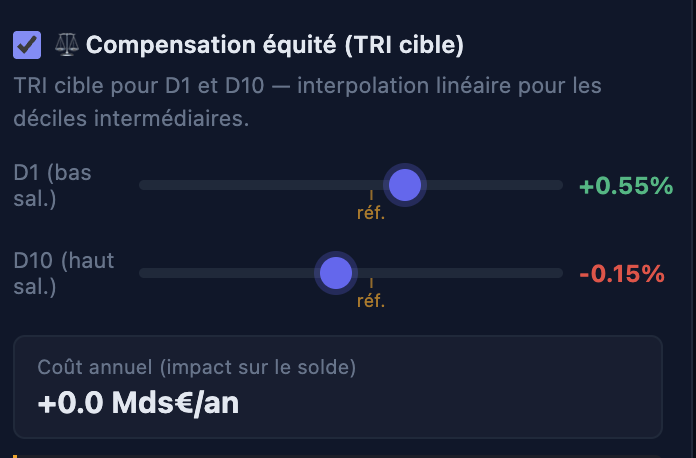
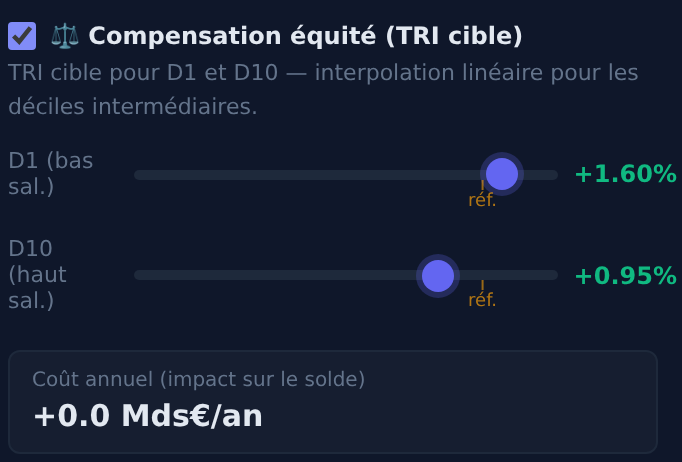
Add files via upload
Notice + TRI

diff --git a/notice.html b/notice.html
@@ -411,7 +411,7 @@
 
       <div class="example">
         <strong>Pourquoi le TRI varie selon les déciles ?</strong><br>
-        D1 commence à travailler jeune (vers 19 ans), a une carrière longue, et une espérance de vie plus courte — le système ne lui est pas très favorable en rendement pur. D10 commence à travailler tard (études longues), vit plus longtemps à la retraite — même avec un taux de remplacement plus faible, son TRI peut être meilleur.
+        D1 commence à travailler jeune (vers 19 ans), a une carrière longue et une espérance de vie plus courte : son rendement est inférieur à celui des salaires moyens. D10 commence à travailler tard (études longues) et vit plus longtemps à la retraite, mais son taux de remplacement faible (43 %) lui donne le rendement le plus bas.
       </div>
     </div>
   </div>
@@ -582,31 +582,31 @@
     </div>
     <div class="lever-desc">Le taux de rendement que l'on souhaite garantir (ou imposer) à chaque extrémité de l'échelle des revenus.</div>
 
-    <p><strong>TRI D1 positif :</strong> on garantit aux travailleurs modestes un retour sur cotisations supérieur à zéro. Cela nécessite de verser un complément de pension — un coût pour le système.</p>
+    <p><strong>TRI D1 relevé :</strong> on fixe pour les travailleurs modestes une cible supérieure à leur TRI actuel (environ +1,3 % pour la génération 1980). Cela nécessite de verser un complément de pension — un coût pour le système.</p>
 
-    <p><strong>TRI D10 négatif :</strong> on demande aux hauts revenus d'accepter un rendement inférieur à ce qu'ils auraient "droit" en pur calcul actuariel. Leur pension est volontairement réduite — ce qui génère une économie pour le système. C'est un mécanisme de solidarité explicite.</p>
+    <p><strong>TRI D10 abaissé :</strong> on fixe pour les hauts revenus une cible inférieure à leur TRI actuel (environ +0,7 % pour la génération 1980). Leur pension est volontairement réduite — ce qui génère une économie pour le système. C'est un mécanisme de solidarité explicite.</p>
 
     <p>Le coût net (ou l'économie nette) de cette redistribution est affiché dans le simulateur et intégré au solde global.</p>
 
     <div class="example">
-      <strong>La situation actuelle (curseurs à zéro) :</strong><br>
-      Sans redistribution, le graphique du simulateur révèle une inégalité de fait : D1 affiche un TRI <strong>négatif</strong> (−0,2 % environ), tandis que D5 à D8 sont positifs, et D9–D10 repassent légèrement négatifs.<br><br>
-      Pourquoi D1 est-il pénalisé ? Les travailleurs modestes commencent à travailler jeunes, ont des carrières longues — et une <strong>espérance de vie plus courte</strong>. Résultat : ils cotisent beaucoup, mais touchent leur retraite pendant moins longtemps. En pur calcul financier, le système ne leur est pas favorable.<br><br>
-      Pourquoi D9–D10 sont-ils aussi légèrement négatifs ? Malgré une espérance de vie plus longue (qui devrait améliorer leur TRI), leur <strong>taux de remplacement est faible</strong> (43 % pour D10) car le système plafonne les droits au-delà d'un certain salaire. Ils contribuent donc plus au financement collectif qu'ils ne récupèrent en proportion.<br><br>
-      Les déciles D4 à D7 — les salaires intermédiaires — sont les grands bénéficiaires du système actuel en termes de rendement pur.<br><br>
-      <strong>Les curseurs d'équité permettent de corriger ces déséquilibres</strong> en fixant des cibles de rendement différentes : par exemple, garantir un TRI minimum positif à D1, ou demander un effort plus explicite à D10.
+      <strong>La situation actuelle (compensation désactivée) :</strong><br>
+      Sans redistribution, le graphique du simulateur (génération 1980) montre un rendement positif pour tous, mais inégal : environ +1,3 % pour D1, +1,6 % pour D5 et +0,7 % pour D10.<br><br>
+      Pourquoi D1 est-il en dessous des salaires moyens ? Les travailleurs modestes commencent à travailler jeunes, ont des carrières longues — et une <strong>espérance de vie plus courte</strong>. Résultat : ils cotisent longtemps, mais touchent leur retraite pendant moins d'années.<br><br>
+      Pourquoi D9–D10 ont-ils le rendement le plus bas ? Malgré une espérance de vie plus longue (qui devrait améliorer leur TRI), leur <strong>taux de remplacement est faible</strong> (43 % pour D10) car le système plafonne les droits au-delà d'un certain salaire. Ils contribuent donc plus au financement collectif qu'ils ne récupèrent en proportion.<br><br>
+      Les déciles D4 à D6 — les salaires intermédiaires — sont les grands bénéficiaires du système actuel en termes de rendement pur.<br><br>
+      <strong>Les curseurs d'équité permettent de corriger ces déséquilibres</strong> en fixant des cibles de rendement différentes : par exemple, relever le TRI de D1, ou demander un effort plus explicite à D10. Par défaut, les deux curseurs sont placés sur la valeur « réf. » (+1,20 %) : c'est le TRI identique pour tous les déciles qui ne coûte ni ne rapporte rien au système.
     </div>
     <div style="margin:16px 0;text-align:center;">
-      <p style="color:var(--muted);font-size:.85rem;margin-bottom:8px;">Exemple — TRI par décile, génération 1980, scénario de référence (curseurs à zéro)</p>
+      <p style="color:var(--muted);font-size:.85rem;margin-bottom:8px;">Exemple — TRI par décile, génération 1980, scénario de référence (compensation désactivée)</p>
       <img src="tri-exemple.png" alt="Graphique TRI par décile — génération 1980" style="width:260px;border-radius:10px;border:1px solid var(--border);">
     </div>
 
-    <p>On peut choisir de corriger ces inégalités en jouant sur les curseurs d'équité. Dans l'exemple ci-dessous, le TRI de D1 a été fixé à +0,55 % et celui de D10 à −0,15 %. Le coût global est neutre pour le système, mais correspond à une baisse de "rentabilité" pour les déciles du milieu, qui financent en partie la redistribution.</p>
+    <p>On peut choisir de corriger ces inégalités en jouant sur les curseurs d'équité. Dans l'exemple ci-dessous, le TRI de D1 a été fixé à +1,60 % et celui de D10 à +0,95 %. Le coût global est neutre pour le système, mais correspond à une baisse de "rentabilité" pour les déciles du milieu, qui financent en partie la redistribution.</p>
 
     <div style="margin:16px 0;display:flex;gap:16px;align-items:flex-start;justify-content:center;flex-wrap:wrap;">
       <div style="text-align:center;">
         <p style="color:var(--muted);font-size:.85rem;margin-bottom:8px;">Réglage des curseurs</p>
-        <img src="tri-exemple%203.png" alt="Curseurs TRI D1=+0,55% D10=-0,15%" style="width:260px;border-radius:10px;border:1px solid var(--border);">
+        <img src="tri-exemple%203.png" alt="Curseurs TRI D1=+1,60% D10=+0,95%" style="width:260px;border-radius:10px;border:1px solid var(--border);">
       </div>
       <div style="text-align:center;">
         <p style="color:var(--muted);font-size:.85rem;margin-bottom:8px;">TRI résultant par décile</p>
@@ -620,8 +620,8 @@
     </div>
 
     <div class="lever-effect">
-      <span class="tag tag-green">D10 négatif → recette pour le système</span>
-      <span class="tag tag-red">D1 positif → coût pour le système</span>
+      <span class="tag tag-green">D10 abaissé → recette pour le système</span>
+      <span class="tag tag-red">D1 relevé → coût pour le système</span>
       <span class="tag tag-blue">Effet net variable selon les curseurs</span>
     </div>
   </div>
